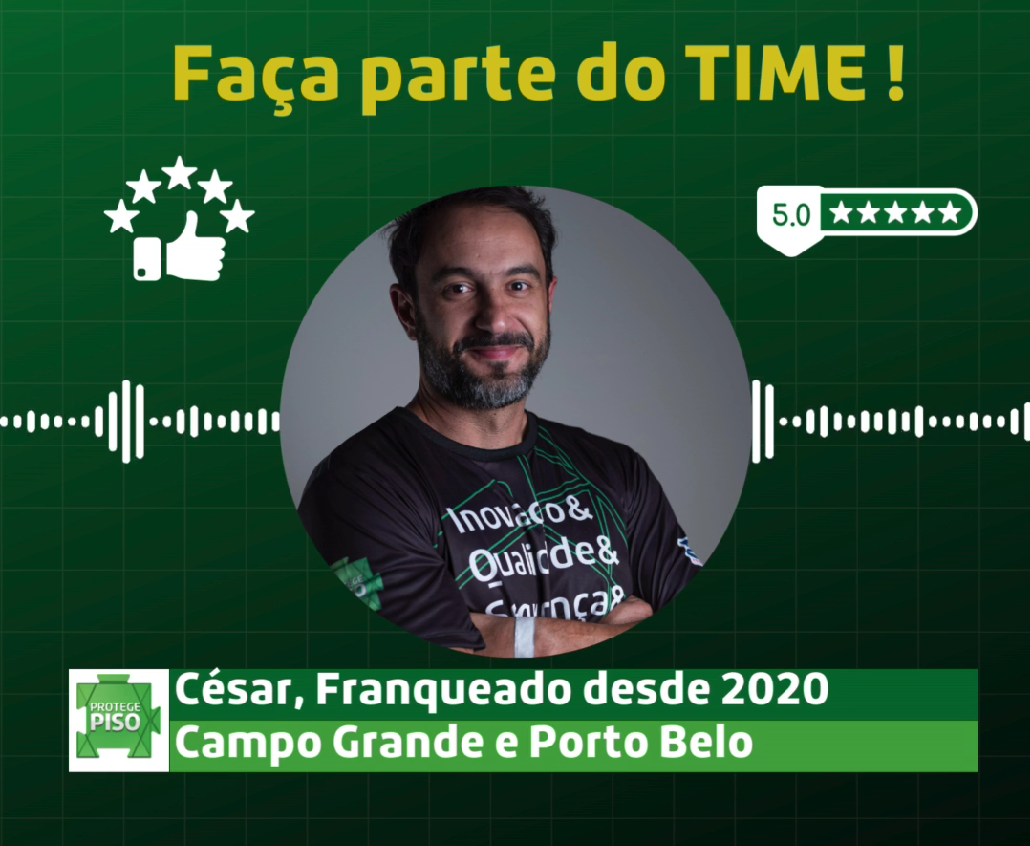
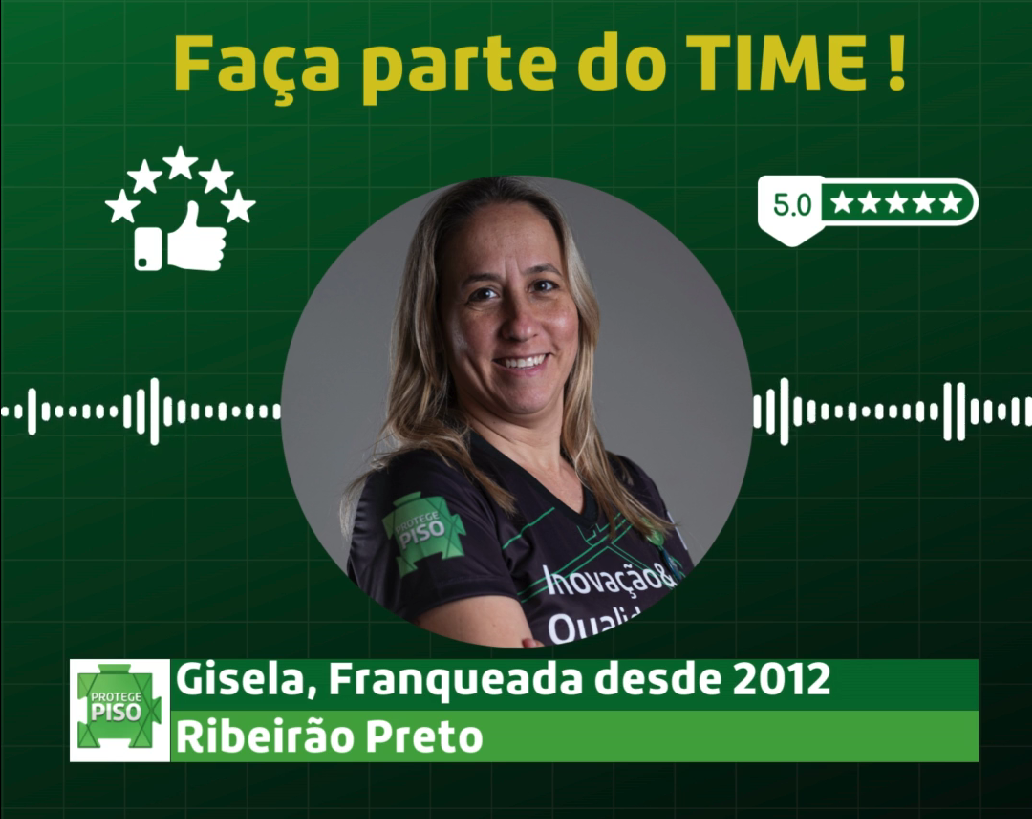
first commit ribeirao preto

diff --git a/index.html b/index.html
@@ -5,7 +5,7 @@
     <meta charset="UTF-8">
     <meta name="viewport" content="width=device-width, initial-scale=1.0">
     <meta name="Landing Page" content="Website da franquia da protege piso de Palmas">
-    <title>Protege Piso Campo Grande</title>
+    <title>Protege Piso Ribeirão Preto</title>
     <link rel="stylesheet" href="styles.css">
     <link rel="stylesheet" href="https://cdn.jsdelivr.net/npm/glider-js@1/glider.min.css">
     <script src="https://cdn.jsdelivr.net/npm/glider-js@1/glider.min.js"></script>
@@ -31,7 +31,7 @@
                 <div class="navbar-container">
                     <a href="#" class="logo">
                         <img src="./images/logoprotege.png" alt="Logo da protege piso">
-                        <h3>Campo Grande</h3>
+                        <h3>Ribeirão Preto</h3>
                     </a>
 
                     <div class="menu-toggle" id="mobile-menu" onclick="toggleMenu()">
@@ -45,7 +45,7 @@
                         <li class="nav-item"><a href="#Informacoes" class="nav-link">Informações</a></li>
                         <li class="nav-item"><a href="#" class="nav-link" id="openChatBtn">Seja um franqueado</a></li>
                         <li class="nav-item">
-                            <a href="https://api.whatsapp.com/send?phone=5567996001306" target="_blank">
+                            <a href="https://api.whatsapp.com/send?phone=5516981727900" target="_blank">
                                 <img src="images/icone_whatsapp.png" alt="icone logo whatsapp" class="whatsapp-icon-nav"
                                     style="margin-right: 10px;">
                             </a>
@@ -172,7 +172,7 @@
             </p>
         </div>
         <div class="container-iframe">
-            <iframe src="https://app.ketzim.com/webservice/mapa/campogrande/" class="iframe-full" title="Mapa das obras realizadas na cidade da franquia"></iframe>
+            <iframe src="https://app.ketzim.com/webservice/mapa/ribeiraopreto/" class="iframe-full" title="Mapa das obras realizadas na cidade da franquia"></iframe>
         </div>
     </section>
 
@@ -185,7 +185,7 @@
                 <p id="followers"></p>
                 <p id="posts"></p>
             </div>
-            <a href="https://www.instagram.com/protegepisocampogrande/" target="_blank"><button type="button"
+            <a href="https://www.instagram.com/protegepisoribeirao/" target="_blank"><button type="button"
                     class="botao-seguir">Seguir</button></a>
         </div>
         <div class="glider-contain-custom">
@@ -197,7 +197,7 @@
     </section>
 
     <section class="container-quem-somos" id="QuemSomos">
-        <h3>EM CAMPO GRANDE DESDE 2023</h3>
+        <h3>EM RIBEIRÃO PRETO DESDE 2012</h3>
         <img src="images/na_cidade_desde.PNG" class="imagem-quem-somos" alt="imagem do franqueado">
     </section>
 
@@ -208,16 +208,16 @@
 
         <div class="rodape-informacoes">
             <h5>Franquia</h5>
-            <p>pollefrone@protegepiso.com.br</p>
+            <p>contato@protegepiso.com.br</p>
             <div class="item-rodape">
-                <a href="https://api.whatsapp.com/send?phone=5567996001306" target="_blank">
+                <a href="https://api.whatsapp.com/send?phone=5516981727900" target="_blank">
                     <img src="images/icone_whatsapp.png" alt="icone logo whatsapp"
                         class="rodape-informacoes-icone-whatsapp">
                 </a>
-                <p>(67) 99600-1306</p>
+                <p>(16) 98172-7900</p>
             </div>
             <div class="item-rodape">
-                <a href="https://www.instagram.com/protegepisoriodejaneiro/" target="_blank">
+                <a href="https://www.instagram.com/protegepisoribeirao/" target="_blank">
                     <img src="images/icone_instagram.png" alt="icone logo instagram"
                         class="rodape-informacoes-icone-instagram">
                 </a>

diff --git a/index.js b/index.js
@@ -39,7 +39,7 @@ function toggleMenu() {
     menu.classList.toggle('active');
 }
 
-const apiUrl = 'https://app.ketzim.com/webservice/get-instagram-info/ProtegePisoCampoGrande/?Token=Ld7gRCo9JtIRw0Ub3sC3JxuCgIMvSAzJEMLSutCPh9XosGzzqpdlhsqhUYXHHRyHKPZ6MHcwfl8Dl7ohzsKv7jpihquxHvFmEkFJ';
+const apiUrl = 'https://app.ketzim.com/webservice/get-instagram-info/ProtegePisoRibeiraoPreto/?Token=Ld7gRCo9JtIRw0Ub3sC3JxuCgIMvSAzJEMLSutCPh9XosGzzqpdlhsqhUYXHHRyHKPZ6MHcwfl8Dl7ohzsKv7jpihquxHvFmEkFJ';
 
 function displayUserProfile(profile) {
     document.getElementById('profile-picture').src = profile.profile_picture_url;
@@ -134,7 +134,7 @@ function waitForJivoChat() {
 waitForJivoChat();
 
 const iframeContainer = document.querySelector('.container-iframe');
-const iframeUrl = 'https://app.ketzim.com/webservice/mapa/campogrande/';
+const iframeUrl = 'https://app.ketzim.com/webservice/mapa/ribeiraopreto/';
 
 
 fetch(iframeUrl)
